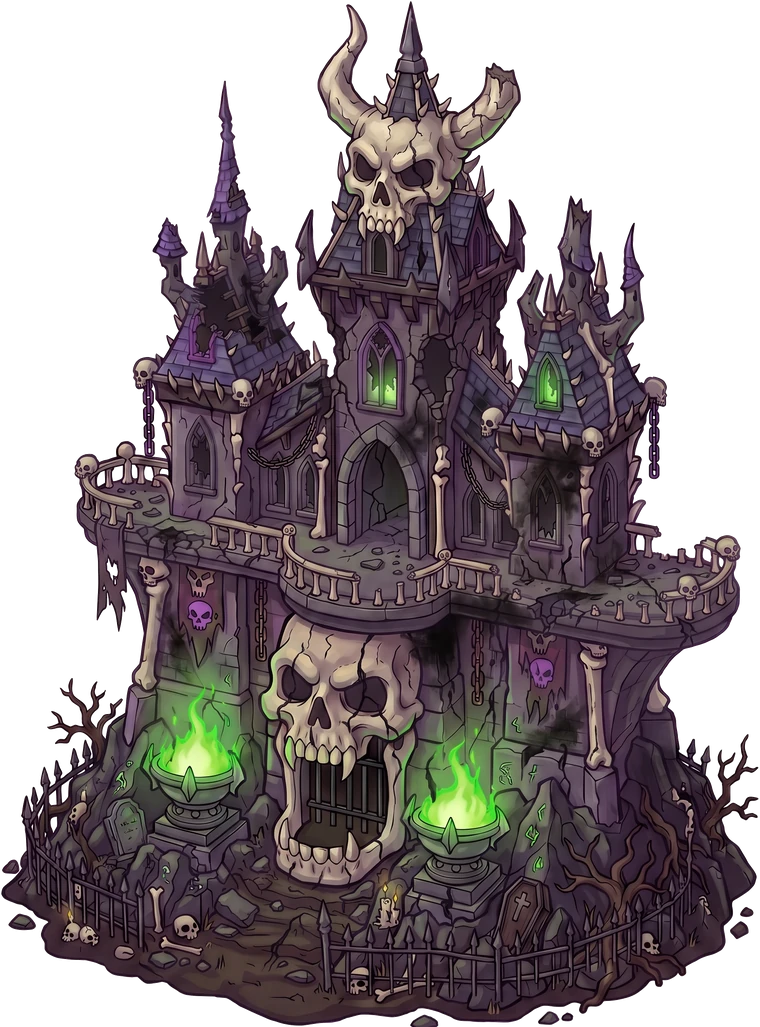
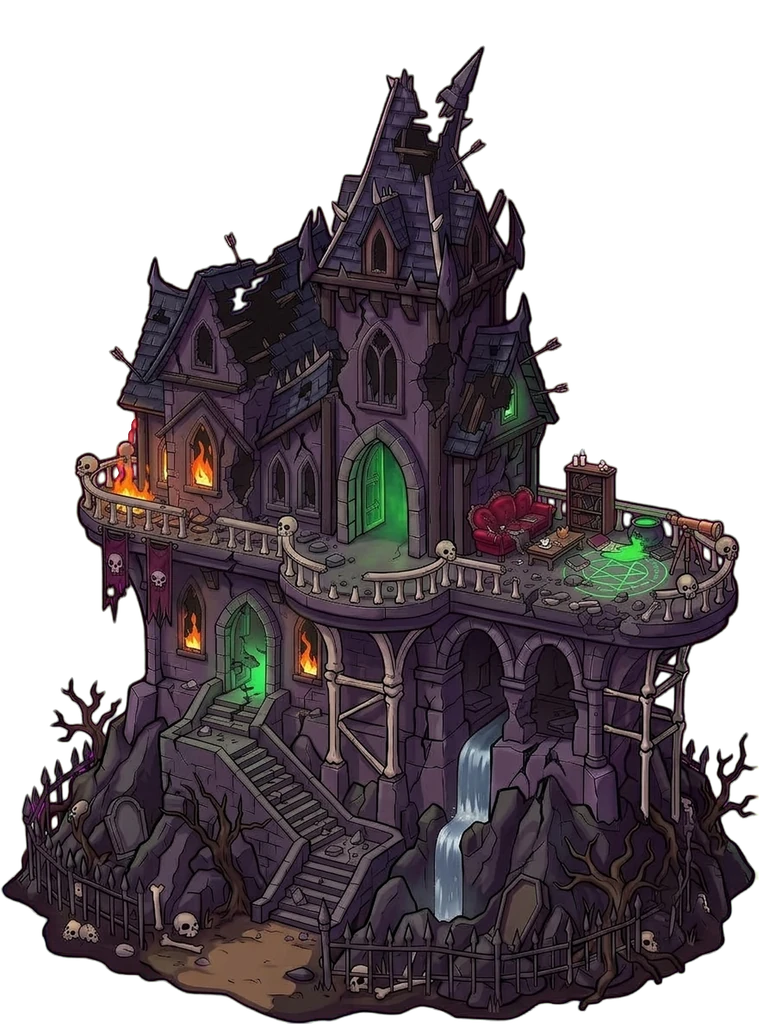
Kale v4: teraslı gotik ev, 3 hasar evresi; v3 Veo döngüleri kapalı (yedek varliklar/cikti/kale_v3) (yayın 729)

diff --git a/sinir-kalesi/js/game.js b/sinir-kalesi/js/game.js
@@ -6572,12 +6572,12 @@ function castleStage() { const r = G.lives / G.maxLives; return r > 0.6 ? 1 : r 
 // rails: önde yeniden çizilen korkuluk dikdörtgenleri (Mortimer ve muhafızların ayakları korkuluğun ardında kalır)
 // 13 Eki (Caner): kale sıfırdan (ham/nm_kale_v3.jpg, varliklar/kale_v3_isle.py): boynuzlu kafatası kule, kafatası ağzı kapı, ortada yarım daire
 // balkon (Mortimer), iki yan kanat balkonda okçular. Kesirler castle_keep_1 görseline göre (ızgarayla ölçüldü).
-const KEEP = { w: 184, gate: [0.455, 0.845], at: [0.485, 0.552], rail: [0.36, 0.53, 0.62, 0.61], px: 122,
+const KEEP = { w: 184, gate: [0.42, 0.88], at: [0.49, 0.538], rail: [0.36, 0.53, 0.62, 0.61], px: 122, // 17 Eki: kale v4 (teraslı gotik ev)
   // railPoly: korkuluğun üst çizgisi (tutamak) boyunca çokgen; altı önde yeniden çizilir (Mortimer ve okçuların ayakları korkuluğun ardında)
-  railPoly: [[0.1, 0.46], [0.13, 0.47], [0.2, 0.5], [0.28, 0.518], [0.33, 0.535], [0.37, 0.548], [0.42, 0.56], [0.48, 0.566], [0.54, 0.562], [0.58, 0.552],
-    [0.62, 0.556], [0.7, 0.574], [0.8, 0.584], [0.88, 0.584], [0.93, 0.57], [0.97, 0.548], [0.97, 0.63], [0.1, 0.63]],
+  railPoly: [[0.11, 0.454], [0.145, 0.488], [0.263, 0.5], [0.36, 0.509], [0.395, 0.532], [0.447, 0.548], [0.526, 0.552], [0.585, 0.539], [0.684, 0.564],
+    [0.79, 0.574], [0.895, 0.571], [0.954, 0.541], [0.96, 0.63], [0.1, 0.63]],
   guards: [], gpx: 128,
-  archers: [[0.8, 0.566, -1], [0.2, 0.488, 1]], apx: 105 };
+  archers: [[0.8, 0.566, -1], [0.235, 0.488, 1]], apx: 105 };
 const isKeep = (im) => im && [1, 2, 3, 4].some(n => im === spr('castle_keep_' + n));
 function castleStageSprite() {
   if (NECRO && spr('castle_keep_1') && !avluOn()) { const st = castleStage(); return spr('castle_keep_' + st) || (st > 1 && spr('castle_keep_2')) || spr('castle_keep_1'); } // can azaldıkça hasarlı hal
@@ -14784,16 +14784,16 @@ function winCol(i) {
   return A.map((v, j) => Math.round(lerp(v, B[j], k))).join(',');
 }
 // heybetli kalenin ışıkları: iki mangalda kızıl ruh ateşi (11 Eki: görsel de mor/kızıl, varliklar/kale_renk.py), pencereler ve gül pencere nabız gibi, kafatası kapının gözleri yanar
-const KEEP_FX = { // 13 Eki: yeni kale (yeşil alevli mangallar, mor/yeşil pencereler; 4. öğe pencerenin rengi)
-  fire: [[0.255, 0.76], [0.6, 0.79]], green: true, roof: [[0.27, 0.32], [0.72, 0.36]], eyes: [[0.39, 0.688], [0.505, 0.692]],
-  win: [[0.5, 0.36, 2.2, '200,90,255'], [0.5, 0.25, 0.5, '110,255,120'], [0.625, 0.25, 0.5, '200,90,255'], [0.26, 0.33, 1, '200,90,255'], [0.26, 0.455, 1, '110,255,120'],
-    [0.36, 0.48, 0.8, '110,255,120'], [0.405, 0.48, 0.8, '110,255,120'], [0.72, 0.37, 1, '110,255,120'], [0.72, 0.5, 1, '200,90,255'], [0.8, 0.5, 0.8, '110,255,120'], [0.62, 0.515, 0.8, '110,255,120']],
-  // 11 Eki: hasar evrelerinin dumanı ve çatı yangını görselden silindi, kodla canlı (Caner: duman hareketsizdi).
-  // smoke: [x, y, kalınlık] dumanın çıktığı yer; burn: [x, y, boy] çatıdaki yangın. Evre başına (castle_keep_N).
+const KEEP_FX = { // 17 Eki: kale v4 (turuncu pencereler, yeşil kapılar, ritüel çemberi; 4. öğe ışığın rengi). Mangal yok (fire boş).
+  fire: [], green: true, eyes: [],
+  win: [[0.497, 0.244, 0.6, '255,150,60'], [0.625, 0.24, 0.5, '255,150,60'], [0.5, 0.356, 1.6, '255,150,60'], [0.267, 0.337, 0.8, '255,150,60'],
+    [0.263, 0.444, 0.9, '255,150,60'], [0.366, 0.47, 0.6, '110,255,120'], [0.405, 0.47, 0.6, '110,255,120'], [0.668, 0.388, 0.7, '110,255,120'],
+    [0.5, 0.478, 1.4, '110,255,120'], [0.322, 0.634, 1.3, '110,255,120'], [0.25, 0.605, 0.8, '255,150,60'], [0.405, 0.632, 0.8, '255,150,60'],
+    [0.803, 0.551, 1.4, '110,255,120'], [0.842, 0.512, 0.7, '110,255,120']],
+  // hasar evrelerinde duman ve yangın kodla canlı: smoke [x, y, kalınlık], burn [x, y, boy]; off: o evrede kırılıp sönen pencereler (win sırası)
   dmg: {
-    2: { smoke: [[0.66, 0.3, 0.8]], burn: [] }, // 13 Eki: yeni kalenin çatıları
-    3: { smoke: [[0.26, 0.28, 1], [0.72, 0.33, 1.1]], burn: [[0.26, 0.29, 0.9], [0.72, 0.34, 1]] },
-    4: { smoke: [[0.26, 0.26, 1.2], [0.72, 0.31, 1.3], [0.5, 0.2, 0.9], [0.87, 0.55, 0.7]], burn: [[0.26, 0.28, 1.1], [0.72, 0.33, 1.2], [0.87, 0.56, 0.7]] },
+    2: { smoke: [[0.27, 0.43, 0.6], [0.56, 0.1, 0.7]], burn: [] },
+    3: { smoke: [[0.3, 0.3, 1], [0.5, 0.13, 0.9], [0.62, 0.36, 0.9], [0.17, 0.46, 0.8]], burn: [[0.17, 0.475, 0.6], [0.27, 0.46, 0.45]], off: [0, 1, 2, 3] },
   },
 };
 // süzülen duman: üst üste binen yumuşak gri lekeler aşağıdan yukarı yükselir, rüzgârla sağa kıvrılır, büyüyüp söner (görselde değil, her karede)
@@ -14811,7 +14811,9 @@ function keepSmoke(x, y, s, k, seed) {
 function drawKeepLights(cp, h, sh, burning) {
   const s = cp.w / 1000, P = (f) => [cp.x - cp.w / 2 + f[0] * cp.w + sh, cp.y - h + f[1] * h];
   ctx.save(); ctx.globalCompositeOperation = 'lighter';
+  const off = (KEEP_FX.dmg[burning] || {}).off;
   for (const [i, f] of KEEP_FX.win.entries()) {
+    if (off && off.includes(i)) continue;
     const [x, y] = P(f), k = 0.6 + 0.25 * Math.sin(time * 1.2 + i * 0.9) + 0.15 * Math.sin(time * 5 + i * 2) * Math.sin(time * 1.6 + i);
     glow(ctx, x, y, 22 * s * f[2], f[3] || winCol(i), 0.15 * k + 0.05);
   }

diff --git a/sinir-kalesi/index.html b/sinir-kalesi/index.html
@@ -17,7 +17,7 @@
 <canvas id="game" aria-label="Sınır Kalesi oyun alanı"></canvas>
 <script>
   // Sürüm damgası: her yayında artırılır; tarayıcı eski önbellek kopyasını kullanmaz (js ve görseller).
-  window.SURUM = '728';
+  window.SURUM = '729';
   // dil: kayıtlı seçim (yoksa Türkçe); tr/en dışındakiler için çeviri sözlüğü dil.js'ten önce yüklenir
   window.__dilYukle = (function () {
     var l = null; try { l = localStorage.getItem('sinirKalesi.lang'); } catch (e) {}

diff --git a/sinir-kalesi/yayin.html b/sinir-kalesi/yayin.html
@@ -11,7 +11,7 @@
 <canvas id="game" aria-label="Sınır Kalesi oyun alanı"></canvas>
 <script>
   // Sürüm damgası: her yayında artırılır; tarayıcı eski önbellek kopyasını kullanmaz (js ve görseller).
-  window.SURUM = '728';
+  window.SURUM = '729';
   // dil: kayıtlı seçim (yoksa Türkçe); tr/en dışındakiler için çeviri sözlüğü dil.js'ten önce yüklenir
   window.__dilYukle = (function () {
     var l = null; try { l = localStorage.getItem('sinirKalesi.lang'); } catch (e) {}

diff --git a/varliklar/kale_v4_isle.py b/varliklar/kale_v4_isle.py
@@ -8,7 +8,10 @@ from PIL import Image, ImageDraw
 D = os.path.dirname(os.path.abspath(__file__)); sys.path.insert(0, D)
 from anim_isle import remove_magenta
 OUT = os.path.join(D, 'cikti', 'kale_v4'); W_OUT = 760
-HACLAR = {1: [[(1201, 2062), (1226, 2062), (1226, 2130), (1201, 2130)], [(1191, 2076), (1237, 2076), (1237, 2100), (1191, 2100)]]}
+TABUT = [[(1201, 2062), (1226, 2062), (1226, 2130), (1201, 2130)], [(1191, 2076), (1237, 2076), (1237, 2100), (1191, 2100)]]  # tabuttaki haç (her evrede aynı yerde)
+HACLAR = {1: TABUT, 2: TABUT + [[(1186, 2060), (1236, 2060), (1236, 2140), (1186, 2140)]]}
+# artı biçimli çatı delikleri (haç gibi okunuyor): kutudaki koyu delik pikselleri çevreden doldurulur
+DELIK = {2: [(340, 700, 400, 762), (558, 670, 664, 784)]}
 
 
 def harmonik(a, m, n=1500):
@@ -25,7 +28,17 @@ def load(n):
     im = Image.open(p).convert('RGB'); a = np.asarray(im).astype(np.float32)
     for poly in HACLAR.get(n, []):
         mk = Image.new('L', im.size, 0); ImageDraw.Draw(mk).polygon(poly, fill=255); harmonik(a, np.asarray(mk) > 0)
+    from scipy import ndimage as nd
+    for x0, y0, x1, y1 in DELIK.get(n, []):
+        m = np.zeros(a.shape[:2], bool); m[y0:y1, x0:x1] = a[y0:y1, x0:x1].max(2) < 60
+        m = nd.binary_dilation(nd.binary_opening(m, iterations=2), iterations=3); harmonik(a, m)
+        a[m] += np.random.default_rng(5).normal(0, 3, (m.sum(), 1))
     rgba = remove_magenta(np.clip(a, 0, 255).astype(np.uint8)); rgba[..., 3] = np.where(rgba[..., 3] < 24, 0, rgba[..., 3])
+    # kenar pembeliği (3. evre yarım çözünürlükte geldi, büyütülünce magenta saçağı kalın kaldı): saydam bölgeye 8 px içindeki pembe tonu griye çek
+    from scipy import ndimage as nd
+    edge = nd.binary_dilation(rgba[..., 3] < 200, iterations=8); c = rgba[..., :3].astype(np.float32)
+    m = np.minimum(c[..., 0], c[..., 2]) - c[..., 1]; fix = edge & (m > 25)
+    c[fix, 0] -= m[fix] * 0.85; c[fix, 2] -= m[fix] * 0.85; rgba[..., :3] = c.clip(0, 255).astype(np.uint8)
     return rgba
 
 
